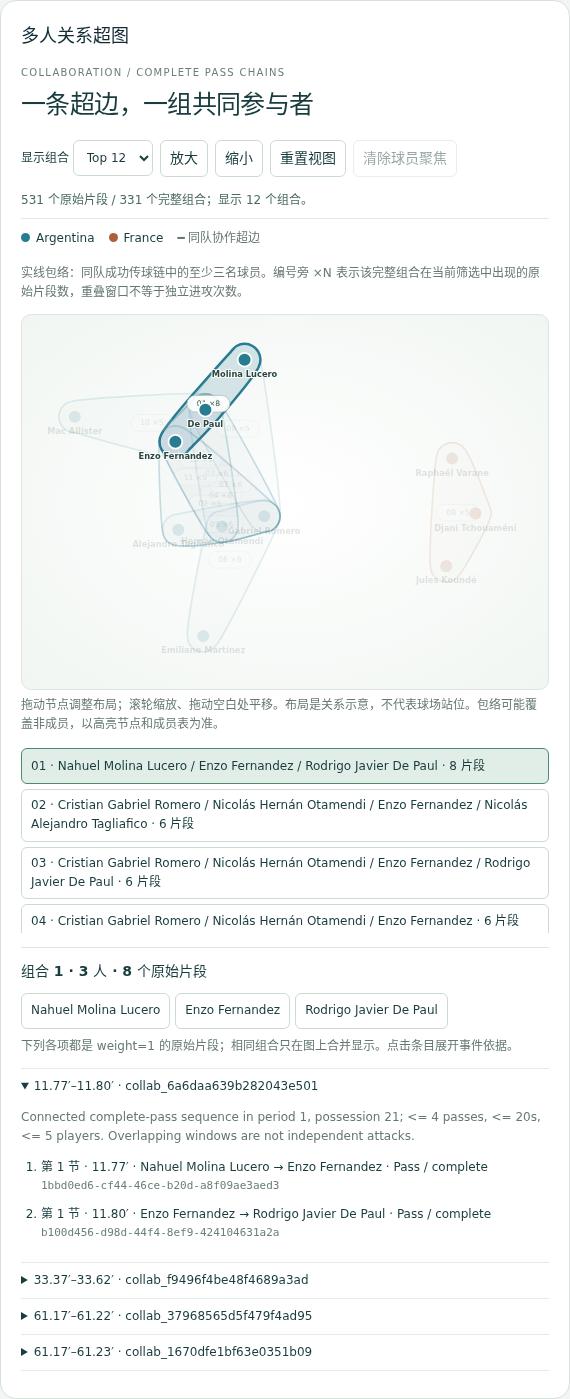
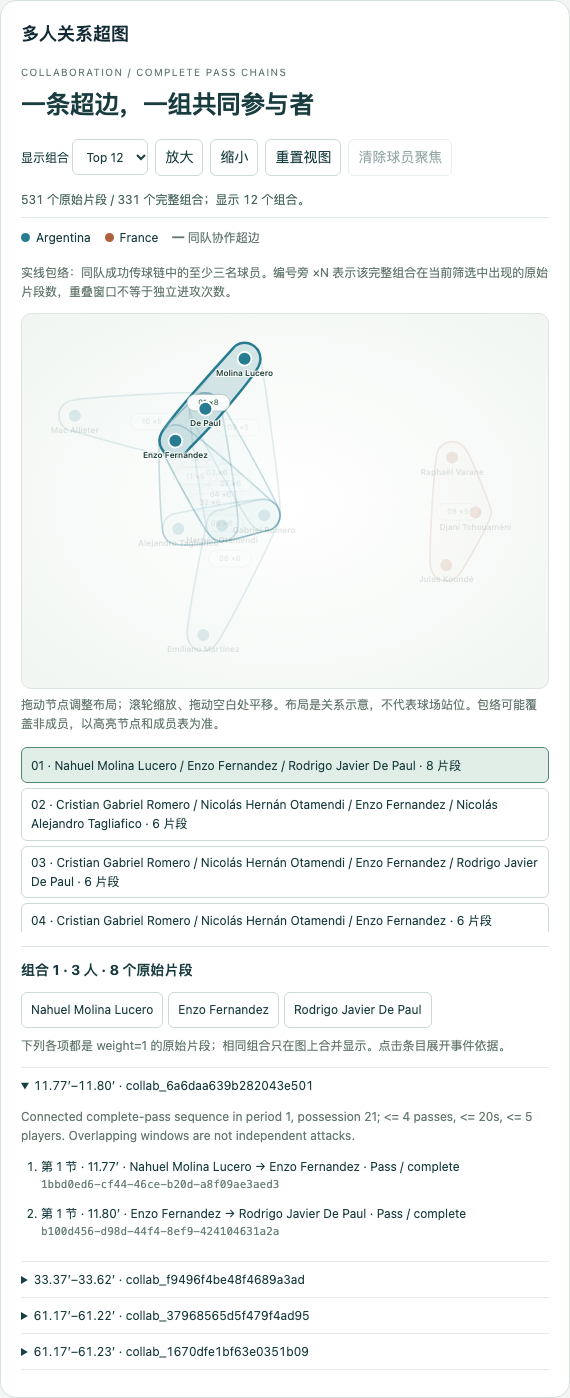
feat(integration): complete A B C D real data wiring

diff --git a/src/js/playerAnalysis.js b/src/js/playerAnalysis.js
@@ -270,7 +270,7 @@ function element(document, tag, className, text) {
 /**
  * Returns { destroy(), updateDataset(nextDataset) }.
  * Optional bubbling event: playeranalysis:select-edges. It requests, never claims,
- * a combination highlight; B/D may listen without changing the required store.
+ * a combination highlight; B listens without changing the required store.
  */
 export function mountPlayerAnalysis(container, store, initialDataset = {}) {
   if (!container || typeof container.append !== "function" || !container.ownerDocument) throw new TypeError("C 模块需要一个有效的 DOM 容器。");
@@ -604,8 +604,8 @@ export function mountPlayerAnalysis(container, store, initialDataset = {}) {
     find(".pa-network-title").textContent = competition ? "跨队对抗关联" : "多人协作关系";
     find(".pa-edge-total").textContent = model.available ? `参与 ${model.edges.length} 个超边片段` : "等待关系数据";
     find(".pa-network-note").textContent = competition
-      ? "与时段相交的完整片段计一次。关系由事件窗口推断，不代表逐帧站位或直接一对一对抗。"
-      : "与时段相交的完整超边计一次；共同参与频次不等于直接传球次数或配合成功率。";
+      ? "与时段相交的完整片段计一次。关系由事件窗口推断，不代表逐帧站位或直接一对一对抗；点击组合会同步高亮 B 主图。"
+      : "与时段相交的完整超边计一次；共同参与频次不等于直接传球次数或配合成功率；点击组合会同步高亮 B 主图。";
     find(".pa-partner-title").textContent = competition ? "共同参与球员 · Top 5" : "队友共同参与频次 · Top 5";
     const statistics = find(".pa-relation-stats");
     statistics.replaceChildren();

diff --git a/docs/INTEGRATION_ACD.md b/docs/INTEGRATION_ACD.md
@@ -1,12 +1,12 @@
-# A/C/D 整合与 C 真实数据验收
+# A/B/C/D 整合与 C 真实数据验收
 
-日期：2026-10-28，Asia/Shanghai。按用户要求整合远端已交付工作，并完善 C。此记录描述当前整合版；A/D 原有文档中的“未拿到其他模块”属于各自独立开发阶段。
+日期：2026-10-29，Asia/Shanghai。此记录描述 B 到位后的最终整合版；A/D 原有文档中的“未拿到其他模块”属于各自独立开发阶段。
 
 ## 交付来源与范围
 
-保留 A 分支 `50a038f` 的数据脚本、概览、文档与测试，以及 D 分支 `acf3ddd` 的对抗建模、正式状态、时间控件与集成入口，使用合并提交保留队友作者与历史。C 丰富版增加成员矩阵、伙伴跳转、可读事件证据、射门地图/清单、同窗球员对比及视觉升级。
+保留 A 分支 `50a038f` 的数据脚本、概览、文档与测试，以及 D 分支 `acf3ddd` 的对抗建模、正式状态、时间控件与集成入口，使用合并提交保留队友作者与历史。C 丰富版增加成员矩阵、伙伴跳转、可读事件证据、射门地图/清单、同窗球员对比及视觉升级。B 分支 `614aa83` 提供成功传球链协作建模、D3 主视图、双模式切换、缩放拖拽和事件证据。
 
-截至本轮检查，远端没有 `feature/hypergraph-B`，仓库也没有 `hypergraph.js` 或 `build_collaboration.py`。没有另写一个主超图或填造协作边。B 的球员高亮、缩放/拖拽及组合高亮仍待交付。
+最终整合分支将上述模块接入同一份 `dataset` 与 `state.js`。C 选择球员时，B 高亮当前球员参与的可见超边；C 点击完整组合时通过 `playeranalysis:select-edges` 请求 B 精确高亮该组合；B 点击节点时通过共享 `selectedPlayerId` 回写 C。
 
 整合改动包括 `main.js`、`src/index.html`、页面壳 CSS、A 名单布局的一行修复、C 的时钟表达，以及相应测试/文档。`state.js`、A 的规范化字段与 D 的对抗算法保持原实现，未增加共享 store 字段或必需 JSON 字段。
 
@@ -21,15 +21,15 @@ python3 -m http.server 8000 --bind 127.0.0.1
 
 打开 `/src/`；Windows 可用 `python`。离线重建使用 `prepare_data.py --offline`，仍逐一检查源文件 SHA256。命令按顺序执行，任何步骤非零退出都会停止，不会把失败当作有效空输出。
 
-A 提供 50 名名单球员、4407 条事件和统计；D 使用默认 5 秒窗口、最多 8 人/24 条事件，成功输出 385 条原始对抗超边。诊断写到忽略的 `output/competition-build-audit.json`，本轮聚合审计副本为 `docs/competition-build-audit-real.json`，不含逐事件记录。不要用 D 早期输入缺失时产生的 `[]` 占位当作真实提取结果；该占位已从版本控制移除，派生超边与 A 的逐事件文件一样本地重建。
+A 提供 50 名名单球员、4407 条事件和统计；B 使用最多 4 次成功传球、20 秒窗口、最多 5 名球员，输出 531 条协作超边；D 使用默认 5 秒窗口、最多 8 人/24 条事件，输出 385 条原始对抗超边。B/D 的诊断与派生数据仍在本地重建，不提交逐事件 JSON。
 
 StatsBomb 来源固定在 `4b73468fc5b0f1950f9f66fada70ad3a4f9327cb`，赛事 ID `3869685`。数据署名与许可沿用 [A 的说明](DATA_A.md) 和官方材料；只推送源码、方法和分析截图，没有公开提交原始/标准化逐事件 JSON。
 
-## 不完整交付的明确处理
+## 缺失数据的明确处理
 
 `loadDataset()` 与 `validateDataset()` 默认仍严格要求五份文件。正式启动通过可选的 `allowUnavailableEdges: true` 支持阶段性集成：仅将超边文件的 HTTP 404 保留为 `undefined`，并给出未交付说明。不会把它替换成 `[]`；坏 JSON、无效证据、500 或基础数据缺失仍阻止启动。
 
-仅有对抗数据时默认打开对抗模式。切到协作时，C 显示“关系数据尚未提供”，个人指标继续工作。主图缺失时只影响其区域，A/C/D 正常使用；载入诊断可以展开查看。
+完整数据时默认打开协作模式。若部署环境只有一类关系文件，页面会保留“未提供”和“有效空结果”的区别，C 的个人指标仍能独立工作，主图区域也会给出局部错误说明。
 
 整体页面将概览与球星视角放在两个页签中，概览保留足够宽度。A 以浅色主题挂载；从概览选择另一位球员会切回球星视角。视角切换是页面内部状态，没有写入全局 store。A 名单原先的 300px 最小列宽在窄容器溢出，现允许列宽缩到容器宽度，事件表依旧内部横向滚动。
 
@@ -41,7 +41,8 @@ StatsBomb 来源固定在 `4b73468fc5b0f1950f9f66fada70ad3a4f9327cb`，赛事 ID
 - 含 `unknown` 传球结果的球员，C 的时段成功率为 N/A；A 汇总的保守比例保留为全场对照，并在 C 说明分母含未知结果。
 - 事件按源比赛时钟筛选，补时和下一阶段可能重叠；A 的阶段只作用于 A。C 射门按阶段/源顺序排列，并显示阶段，未私改全组时间契约。
 - 球场位置来自源 120×80 坐标，不猜测方向或缺失位置。组合展开保留真实事件 ID、发起者、意图接球人、类型与结果；不把失败传球的接球对象当作成功接球。
-- 385 条超边是可能重叠的事件窗口，不是 385 次独立对抗。伙伴共同出现不是直接传球数或一对一对抗次数。
+- 531 条协作超边来自可追溯的成功传球链；重叠链不是 531 次独立进攻。
+- 385 条对抗超边是可能重叠的事件窗口，不是 385 次独立对抗。伙伴共同出现不是直接传球数或一对一对抗次数。
 
 ## 验证命令
 
@@ -62,12 +63,12 @@ DE_THEME=light PLAYWRIGHT_MODULE=playwright PLAYWRIGHT_BROWSER_CHANNEL=chrome no
 
 可将 `PLAYWRIGHT_MODULE` 指向已有 Playwright 的 `index.mjs`。Windows 环境变量写法见 README。真实测试需要先运行数据重建命令；不会在数据缺失时偷偷使用 fixture。
 
-本轮最终执行结果在合并前记录：44 项 Python、67 项 Node、48 项浏览器（A 深色/C/D/真实整合），另 17 项 A 浅色回归。源数据独立审计和离线重建另行执行。截图来自真实浏览器，检查 320/360/768px 的全部 C 视图及 A 概览，没有页面横向溢出。自动检查不能代替成员个人审阅和课堂排练。
+本轮最终执行结果：58 项 Python、75 项 Node、59 项浏览器，另完成 A 数据审计、B 协作审计和离线重建。浏览器回归覆盖 A/B/C/D 同页挂载、C→B 组合高亮、B→C 球员选择、D 模式/球队/时间筛选、事件证据、生命周期与 320/360/768px 布局，没有页面横向溢出。自动检查不能代替成员个人审阅和课堂排练。
 
 ## 截图与后续接入
 
-真实截图 `docs/screenshots/player-c-real-{relations,shots,comparison,mobile}.png`；`player-c-demo-*` 和 D 的 mock 截图继续明确作为模拟测试资料。C 报告草稿已写入实际数值和源事件，文字展示提纲已更新，未新增正式 PPT。
+真实截图 `docs/screenshots/player-c-real-{relations,shots,comparison,mobile}.png` 与 `docs/screenshots/hypergraph-b-{main,collaboration,competition,mobile}.png`；`player-c-demo-*` 和 D 的 mock 截图继续明确作为模拟测试资料。C 报告草稿已写入实际数值和源事件，B/C 展示材料已放入 `docs/slides/`。
 
-B 到位后重新运行准备脚本、严格校验协作边与双模式主图，验收 `selectedPlayerId` 的实际高亮。可选 `playeranalysis:select-edges` 仍是组合请求事件，没有声称 B 已响应。其余课程报告合稿、正式幻灯片和提交包由组内另行汇总。
+最终页面已通过真实数据验收。其余课程报告合稿、正式幻灯片和提交包由组内另行汇总；提交前仍需成员本人审阅数值、截图和课堂讲述。
 
 Codex 辅助完成本轮整合、C 修复、自动化验证、截图检查和文档整理；队友原有实现与作者记录保留。

diff --git a/docs/PLAYER_C.md b/docs/PLAYER_C.md
@@ -1,10 +1,10 @@
 # C 模块：球星聚焦与个人表现分析
 
-本模块遵循用户提供的四人分工与接口说明 v1.0（2026-10-27），开发分支为 `feature/player-C`。2026-10-28 已整合 A 的真实数据、概览和 D 的正式 store/时间控件；按用户授权调整集成入口和页面布局，未增加共享状态字段或修改赛事 JSON 契约。B 的主超图仍待接入。
+本模块遵循用户提供的四人分工与接口说明 v1.0（2026-10-27），开发分支为 `feature/player-C`。2026-10-29 已整合 A 的真实数据、B 的主超图和 D 的正式 store/时间控件；未增加共享状态字段或修改赛事 JSON 契约。
 
 ## 1. 立即运行
 
-推荐按仓库 README 运行 `python3 scripts/prepare_data.py`，再启动下面的服务，访问 `/src/` 使用真实数据整合版。该入口能够在协作关系缺失时继续提供真实个人指标与 D 的对抗关系。模拟演示保留用于边界测试。
+推荐按仓库 README 运行 `python3 scripts/prepare_data.py`，再启动下面的服务，访问 `/src/` 使用 A/B/C/D 真实数据整合版。模拟演示保留用于边界测试。
 
 在仓库根目录执行（Python 3）：
 
@@ -66,7 +66,7 @@ store.subscribe(listener);     // 返回解除订阅函数
 
 读取 `selectedPlayerId`、`selectedTeamId`、`mode`、`timeRange`；本模块只写 `selectedPlayerId`。球员 ID 按标识符处理，不作为数组下标。搜索支持姓名（忽略常见重音符）、球队和球衣号；Messi/Mbappé 快捷选择通过实际球员姓名寻找 ID，不硬编码真实赛事 ID。
 
-本模块既能处理面板内的球员选择，也会响应 B 在主图中写入的 `selectedPlayerId`。B 必须按共享状态高亮其主图中的关联超边；当前独立演示只验证状态消息，不假装已接入 B 的图形。
+本模块既能处理面板内的球员选择，也会响应 B 在主图中写入的 `selectedPlayerId`。B 按共享状态高亮其主图中的关联超边；C 点击完整组合时还会发出可选事件，让 B 精确高亮该组合。A 概览和 D 控件写入同一 store，因此球员、球队、分钟和模式会同时作用于 C 与 B。
 
 ## 4. 指标定义与缺失值
 
@@ -103,7 +103,7 @@ store.subscribe(listener);     // 返回解除订阅函数
 - 多人组合：将整条边的去重球员 ID 排序后聚合，相同完整集合才是同一组合。显示 Top 5，全部原始边计数仍保留在总数中。
 - 对抗模式标题改为“共同参与球员”，逐项标记队友/对手；没有把对手称作协作队友。
 
-## 6. 可选的特定组合高亮请求（供 B/D 接入）
+## 6. 特定组合高亮请求（B 已接入）
 
 冻结 store 没有 `selectedEdgeId`。点击组合时，本模块在自己的 container 上发出可冒泡的 `playeranalysis:select-edges` 自定义事件；不会私自新增全局状态字段。
 
@@ -112,12 +112,12 @@ document.getElementById("player-analysis").addEventListener(
   "playeranalysis:select-edges",
   ({ detail }) => {
     // detail = { playerId, mode, timeRange, edgeIds, playerIds }
-    // B/D 选择接入自己的公开高亮函数；不是必需的 mount 接口。
+    // B 的正式主图会据此优先显示并高亮完整组合。
   }
 );
 ```
 
-再次点击当前组合、切换球员/模式/时段/球队、替换数据或销毁组件会清除局部选择并发出空 `edgeIds`。在没有监听方时，组合选择仍能展示片段时间、超边 ID 和来源事件 ID，但不会声称主图已高亮特定组合。
+再次点击当前组合、切换球员/模式/时段/球队、替换数据或销毁组件会清除局部选择并发出空 `edgeIds`。B 会校验模式、球员和时间区间后再应用请求，避免旧组合在筛选改变后误高亮。
 
 ## 7. 测试与复现
 
@@ -145,15 +145,15 @@ PLAYWRIGHT_BROWSER_CHANNEL=chrome node --test tests/playerAnalysis.browser.mjs
 
 如使用共享环境中的 Playwright，而不是当前仓库的 node_modules，可将环境变量 `PLAYWRIGHT_MODULE` 设为其 `index.mjs` 的绝对路径。也支持 `PLAYWRIGHT_CHROMIUM_EXECUTABLE` 指定浏览器可执行文件。Windows 可使用对应终端的环境变量语法。
 
-已实际运行：30 项 C 统计测试、15 项 C 浏览器测试，以及真实 A/C/D 统计与整合浏览器测试。完整命令及执行总数见 `docs/INTEGRATION_ACD.md`。覆盖统计边界、缺失值、射门源顺序、三种视图、生命周期及 320/360/768px 布局。`player-c-demo-*` 是模拟界面截图；`player-c-real-*` 是真实数据整合页面截图，均由实际浏览器生成。
+已实际运行：30 项 C 统计测试、15 项 C 浏览器测试，以及真实 A/B/C/D 统计与整合浏览器测试。完整命令及执行总数见 `docs/INTEGRATION_ACD.md`。覆盖统计边界、缺失值、射门源顺序、三种视图、B 组合高亮、生命周期及 320/360/768px 布局。`player-c-demo-*` 是模拟界面截图；`player-c-real-*` 与 `hypergraph-b-*` 是真实数据整合页面截图，均由实际浏览器生成。
 
 ## 8. 当前交付边界
 
-C 的搜索、个人指标、对抗关系/组合证据、射门与对比已使用 A/D 的真实产物验证，真实案例和截图已补充。B 的实际主图、球员高亮、协作超边和可选组合高亮仍需 B 交付后验收。正式 PPT 与最终提交压缩包另行汇总；当前不宣称四模块全部完成。
+C 的搜索、个人指标、对抗/协作关系、组合证据、射门与对比已使用 A/B/D 的真实产物验证；B 的球员高亮和 C→B 组合高亮已在真实浏览器中验收。正式 PPT 与最终提交压缩包另行汇总。
 
 ## 9. AI 使用记录
 
-2026-10-27～28：Codex 辅助完成接口分析、C 模块代码、模拟测试数据、自动化测试、独立演示、A/C/D 整合及真实源数据核对、接入文档和报告/展示文字草稿。仍需成员本人审阅实际交互、方法与课堂展示，并在最终报告如实披露 AI 使用范围。
+2026-10-27～29：Codex 辅助完成接口分析、C 模块代码、模拟测试数据、自动化测试、独立演示、A/B/C/D 整合及真实源数据核对、接入文档和报告/展示文字草稿。仍需成员本人审阅实际交互、方法与课堂展示，并在最终报告如实披露 AI 使用范围。
 
 ## 10. 丰富版的三个探索视角
 

diff --git a/README.md b/README.md
@@ -1,6 +1,6 @@
 # Football HyperGraph Explorer
 
-Data Visualization 期中团队项目。当前已整合 A 的真实数据与比赛概览、C 的球星关系/射门/对比分析、D 的对抗建模与正式状态/时间控件。B 的协作建模和唯一主超图尚未交付，页面明确提示待接入；这不是四模块全部完成的最终提交版。
+Data Visualization 期中团队项目。当前已整合 A 的真实数据与比赛概览、B 的协作超图与双模式主视图、C 的球星关系/射门/对比分析、D 的对抗建模与正式状态/时间控件。四个模块共用同一份真实比赛数据和 store，页面已经可以完整联动。
 
 ## 运行整合版（推荐）
 
@@ -13,14 +13,14 @@ python3 -m http.server 8000 --bind 127.0.0.1
 
 Windows 可将 `python3` 换成 `python`。浏览器打开 [整合页面](http://127.0.0.1:8000/src/)。有完整源数据缓存时，使用 `python3 scripts/prepare_data.py --offline` 重建，无需网络。
 
-脚本依次校验/下载 A 的固定版本数据、生成三份基础 JSON，再运行 D 的对抗建模；本场得到 385 条原始事件窗口超边。没有 B 脚本时不会生成空协作文件。正式页面只将关系文件的 HTTP 404 视为“未提供”；基础数据缺失、非法 JSON、错误事件证据或服务器故障仍会报错。严格的五文件加载 API 默认行为保持不变。
+脚本依次校验/下载 A 的固定版本数据、生成三份基础 JSON，再运行 B 的协作链提取和 D 的对抗窗口建模；本场得到 531 条协作超边、385 条对抗超边。正式页面仍只将关系文件的 HTTP 404 视为“未提供”，用于保留阶段性缺失边界；基础数据缺失、非法 JSON、错误事件证据或服务器故障仍会报错。严格的五文件加载 API 默认行为保持不变。
 
 1. 在“球星与关系”选择 Messi 或 Mbappé，查看时段指标与全场对照。页签提供多人组合/成员矩阵与事件证据、射门分布和球员对比。
-2. 顶部模式、分钟区间和球队由 D 的正式 store 同步。当前只有对抗数据时默认对抗模式；切换协作会显示数据未提供，个人指标仍可查看。
+2. 顶部模式、分钟区间和球队由 D 的正式 store 同步。切换协作/对抗会复用同一张 B 主图；时间、球队和球员选择会同时更新 B 与 C。
 3. “比赛概览”使用 A 的浅色仪表盘；从概览选人会回到球星视角。A 的阶段和事件类型是其本地筛选，不会成为 C 的阶段筛选。
 4. 补时与下一阶段的原始分钟可能重叠。C 按共享分钟过滤、射门清单按阶段和事件顺序显示；未知成功率、时段助攻仍保留 N/A。
 
-原始/标准化赛事数据及派生超边在本地重建，不提交逐事件 JSON；署名、许可与来源约束沿用 A 的数据说明。已移除 D 在输入缺失时产生的空占位文件，避免把它当成真实提取结果。详情与验证记录见 [整合说明](docs/INTEGRATION_ACD.md)。
+原始/标准化赛事数据及派生超边在本地重建，不提交逐事件 JSON；署名、许可与来源约束沿用 A 的数据说明。已移除 D 在输入缺失时产生的空占位文件，避免把它当成真实提取结果。详情与验证记录见 [A/B/C/D 整合说明](docs/INTEGRATION_ACD.md)。
 
 ## 先运行 A 模块
 
@@ -127,8 +127,10 @@ C 模块在含未知传球结果的时段将成功率显示为 `N/A`；时段助
 | `data/processed/players.json`、`events.json`、`stats.json` | 本地重建的三份共享数据 |
 | `src/js/dataExplorer.js`、`src/css/dataExplorer.css` | A 比赛概览模块 |
 | `demos/data-a/` | A 的真实数据独立验收页面 |
-| `src/js/playerAnalysis.js` | C 关系/射门/对比分析，已接入真实 A/D 数据 |
-| `src/index.html` | A/C/D 整合入口；B 主超图待接入 |
+| `src/js/playerAnalysis.js` | C 关系/射门/对比分析，已接入真实 A/B/D 数据 |
+| `src/index.html` | A/B/C/D 整合入口与工作区页签 |
+| `src/js/hypergraph.js`、`src/css/hypergraph.css` | B 的双模式主超图、缩放拖拽和事件证据 |
+| `scripts/build_collaboration.py` | B 的成功传球链协作超边构建 |
 | `scripts/prepare_data.py` | 重建当前已交付数据的一条命令入口 |
 | `demos/player-c/` | C 原有模拟数据测试页，不能用作真实比赛结论 |
 | [docs/DATA_A.md](docs/DATA_A.md) | 数据字典、统计口径、时间异常、交接接口 |

diff --git a/docs/report/ASSEMBLY_A.md b/docs/report/ASSEMBLY_A.md
@@ -6,21 +6,21 @@
 |---|---|---|
 | Introduction、Dataset and Preprocessing | A章节已有 | 合并时统一编号、引用和全文措辞 |
 | A案例、截图与AI说明 | 已有真实材料 | 组内确认最终截图与讲述顺序 |
-| Hypergraph Modeling and Visualization | 待B提供 | 协作超边规则、主图代码、真实截图、测试和AI说明 |
-| Star Player Analysis | C已补真实A/D联调、案例、4张真实截图及AI草稿 | B接入后的实际主图高亮、C正式展示文件与个人审阅 |
-| Competition and Temporal Analysis | D已交付算法、控件、总装、章节草稿；真实提取385条边 | B实际双模式主图、D正式展示文件与个人审阅 |
+| Hypergraph Modeling and Visualization | B已交付协作超边规则、双模式主图、真实截图、测试和AI说明 | 组内确认最终讲述顺序与个人审阅 |
+| Star Player Analysis | C已补真实A/B/D联调、组合高亮、案例、4张真实截图及AI草稿 | C正式展示文件与个人审阅 |
+| Competition and Temporal Analysis | D已交付算法、控件、总装、章节草稿；真实提取385条边并与B/C联动 | D正式展示文件与个人审阅 |
 | Results and Discussion | A有本模块案例 | B/C/D各自有来源依据的案例，全组限制与完整页面截图 |
-| Conclusion | 待D初稿及四人审核 | 只总结最终实际完成的功能 |
+| Conclusion | 待四人审核 | 只总结最终实际完成的功能 |
 | References & AI Usage | A已记录自身范围 | 收集其他成员来源、工具用途和实际人工审核状态 |
-| 幻灯片总稿 | A可交付3页PPTX | 收集B/C/D演示文件，合并后各人最多3分钟 |
+| 幻灯片总稿 | A、B已有可编辑PPTX；C/D有文字提纲 | 合并后各人最多3分钟 |
 | 最终课程压缩包 | 尚未制作 | 四模块总装验收、全组report.pdf、全员slides、组号、数据许可处理、总大小≤50MB |
 
 ## 合并时的顺序
 
-1. 收齐上述文件，确认所有截图来自最终实际运行，保留真实来源及限制。
+1. 收齐上述文件，确认所有截图来自最终 A/B/C/D 实际运行，保留真实来源及限制。
 2. 将各人章节合入一个报告，统一图表编号和参考文献，输出根目录 `report.pdf`。
 3. 组织 `Visualization Appendix/code/`、`slides/`、`screenshots/`；数据提供方式遵循源许可，保留已验证的重建命令。
-4. 在全新目录按README重建并运行，核对主超图、球星、模式和时间的整体验收，确认所有必要文件都在包内。
+4. 在全新目录按 README 重建并运行，核对主超图、球星、模式、球队和时间的整体验收，确认所有必要文件都在包内。
 5. 用实际组号命名 `Group-[组号].zip`，检查大小及解压后运行。未经用户后续指示不上传。
 
 这些是依赖组内交接的后续职责，不记作本次已完成。A不代写未提供的B/D结果，也不把原C成果重新标为A贡献。

diff --git a/docs/slides/part_C_outline.md b/docs/slides/part_C_outline.md
@@ -1,11 +1,11 @@
 # C 模块三分钟展示文字提纲
 
-当前优先交付代码。这是后续制作合并 PPT 时可复用的提纲，不是正式 PPT。A/C/D 真实数据案例和截图已补充，B 的实际主图高亮仍待接入。
+这是后续制作合并 PPT 时可复用的提纲，不是正式 PPT。A/B/C/D 真实数据案例、主图高亮和截图已补充。
 
 ## 第 1 页：从球员进入超图（约 45 秒）
 
 - 研究问题：如何从一名球星进入多人协作/对抗关系？
-- 演示：搜索或快捷选择 → 更新统一状态 → B 的主图高亮关联超边。
+- 演示：搜索或快捷选择 → 更新统一状态 → B 的主图高亮关联超边；从 B 点击节点可反向更新 C。
 - 画面：正式主图 + C 详情面板截图。
 - 讲解重点：选择的是球员，分析的仍然是三人及以上的关系集合。
 
@@ -13,7 +13,7 @@
 
 - 个人：时段指标和全场指标对照。
 - 群体：参与超边数、共同参与 Top 5、完整组合频次。
-- 演示：点击组合，展开时间与事件证据。
+- 演示：点击组合，展开时间与事件证据，同时让 B 精确高亮同一完整组合。
 - 可选择成员矩阵展示完整组合的差异；事件展开直接显示传球与接球过程。
 - 真实案例：全场 Messi 参与 87 个对抗窗口，和 Rabiot 共同出现 22 个；仅表述事件关联，不说 22 次直接对抗。配合 `player-c-real-relations.png`。
 - 解释：共同参与频次不等于直接传球次数，也不自动代表配合质量。
@@ -25,7 +25,7 @@
 - 可用真实示例：Mbappé 在源时钟 80–81 分钟有 1 粒进球，全场仍为 3；或 Messi 的 5 次射门与 2 粒进球，点球大战单独排除。
 - 数据口径：零传球时成功率 N/A；缺失 xG/助攻不补零；排除点球大战。
 - 对抗关系是事件窗口推断，需要区分队友与对手。
-- 贡献：独立的 C 模块、可复现测试、接口与缺失数据处理。
+- 贡献：独立的 C 模块、可复现测试、A/B/D 联动接口与缺失数据处理。
 
 ## 问答准备
 

diff --git a/docs/slides/part_D_outline.md b/docs/slides/part_D_outline.md
@@ -22,7 +22,7 @@
 
 - 架构链：五份 JSON → 契约/引用校验 → 同一 store → A/B/C/D 独立容器。
 - 测试证据：空竞争边；精确时间边界；100 次浏览器切换、1000 次状态更新；缺失文件解释；小屏与清理。最终数量引用 `../TEST_RESULTS_D.md`。
-- 区分成果与待办：D 代码与模拟集成已验证；真实决赛、B 的正式 D3 主图和四模块实战联调待验收。
+- 区分成果与待办：D 代码、真实决赛数据、B 的正式 D3 主图和四模块实战联调已验收；课堂讲述与最终报告合稿仍待组内完成。
 - 局限：事件稀疏、窗口共现误关联、跨控球漏识别、重叠窗口、阈值敏感性。
 - 收束：“超图让一个片段的多人关系可被一起探索；所有分析结论都必须回到实际事件证据。”
 - 页下注：AI 用于 D 的实现、测试与文稿辅助，组员负责真实数据和最终结果审核。

diff --git a/docs/TEST_RESULTS_D.md b/docs/TEST_RESULTS_D.md
@@ -1,6 +1,6 @@
 # 模块 D 实际验证记录
 
-> 后续整合记录：本文是 D 独立阶段的历史结果，早期 `competition-build-audit.json` 保留输入缺失记录。A/C/D 现已真实联调；最新真实审计为 `competition-build-audit-real.json`，成功提取 385 条边，当前回归结果见 [整合说明](INTEGRATION_ACD.md)。
+> 后续整合记录：本文是 D 独立阶段的历史结果，早期 `competition-build-audit.json` 保留输入缺失记录。A/B/C/D 现已真实联调；最新真实审计为 `competition-build-audit-real.json`，成功提取 385 条边，当前回归结果见 [整合说明](INTEGRATION_ACD.md)。
 
 日期：2026-10-28（Asia/Shanghai）。本记录只包含本轮实际执行的结果，不继承其他文档中的测试成功声明。
 

diff --git a/docs/INTEGRATION_D.md b/docs/INTEGRATION_D.md
@@ -1,6 +1,6 @@
 # 模块 D：对抗、时间与系统集成交接
 
-> 2026-10-28 整合补充：下文保留 D 独立开发阶段的事实。当前 A/C/D 已接入真实数据，D 成功提取 385 条对抗超边；B 仍待交付。新的启动步骤、缺失文件行为及验证见 [A/C/D 整合说明](INTEGRATION_ACD.md)。
+> 2026-10-29 整合补充：下文保留 D 独立开发阶段的事实。当前 A/B/C/D 已接入真实数据，D 成功提取 385 条对抗超边，B 成功提取 531 条协作超边。新的启动步骤、缺失文件行为及完整验证见 [A/B/C/D 整合说明](INTEGRATION_ACD.md)。
 
 依据：项目根目录 `Team-Task.md` v1.0，第 3 节为冻结契约。完整实现已经逐文件写入仓库，没有伪代码占位。
 
